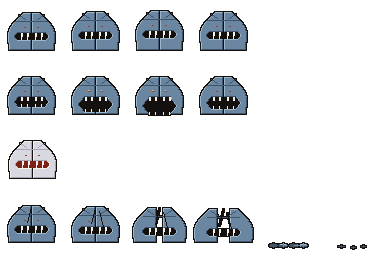
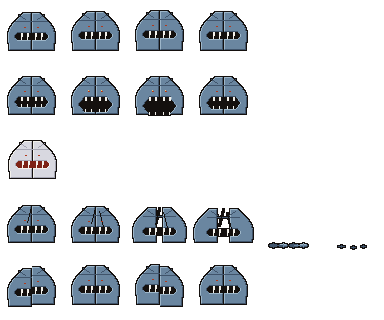
feat(art): animazione walk per i 5 boss (night run, WP-ASSET-2)
Riga walk 4f@8fps per clockwork-mole (rotazione reale dell'anello di
punte a 90 gradi/frame su nucleo fermo), frozen-maw (lembi in
controfase), mire-weaver (andatura alternata a sei zampe), spectral-heron
(beccheggio del collo in antifase, escursione 4px), statue-warden
(oscillazione delle braccia). Righe preesistenti byte-identiche; massa
entro +-10% per frame; bottom allineato all'idle (niente pop); 1 sola
componente connessa per frame su tutti e 20 i frame; 0 colori nuovi.
Tre giri implementer sonnet / verifier opus fino ad APPROVA; commento
del contratto boss aggiornato in art_atlas.h. Il renderer aggancia walk
dietro il flag moving (gia' presente).

Claude-Session: https://claude.ai/code/session_016KmR1Sgi2YEtHgEXCmKoKk

diff --git a/src/assets/art_atlas.h b/src/assets/art_atlas.h
@@ -194,7 +194,7 @@ const ArtSheet *ArtAtlasFindByImageId(const char *imageId);
 /* L'animazione di nome 'name', o NULL. Il confronto e' esatto: i nomi canonici
  * per famiglia li fissa docs/ai-production/08-PIPELINE-SPRITE-ANIMAZIONI.md
  * (walk_down/walk_up/walk_left/walk_right/idle/hit/death per il personaggio,
- * walk/hit/death per i nemici, idle/attack/hit/death per i boss, fly/impact per
+ * walk/hit/death per i nemici, idle/attack/walk/hit/death per i boss, fly/impact per
  * i colpi, aperta/chiusa/bloccata per le porte). */
 const ArtAnim *ArtSheetAnim(const ArtSheet *sheet, const char *name);
 
